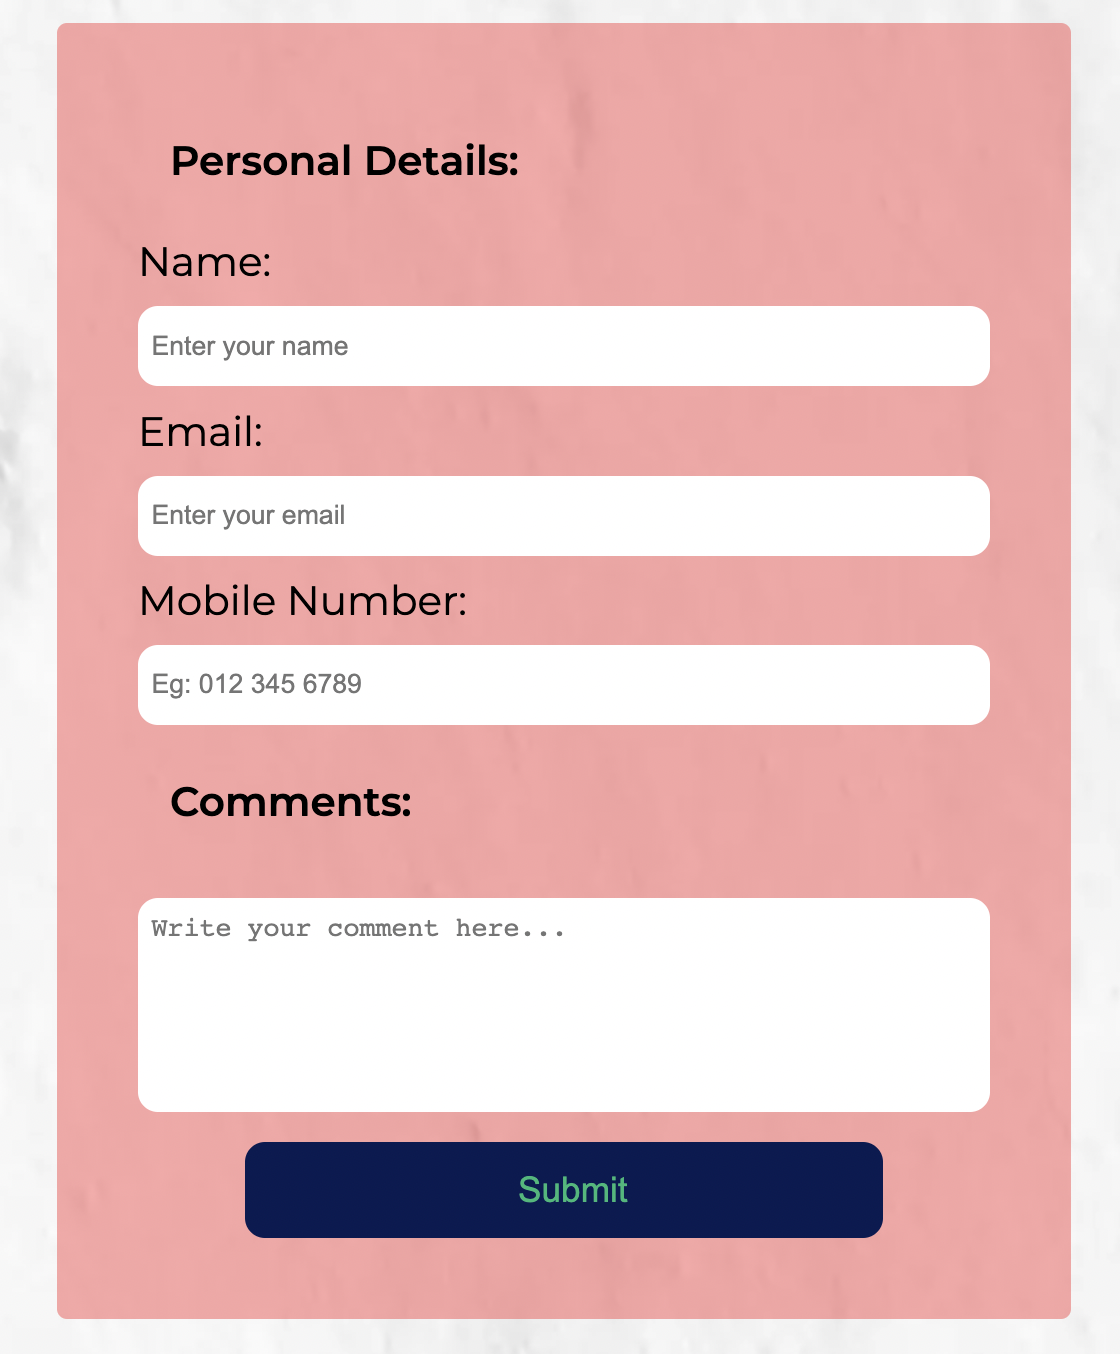
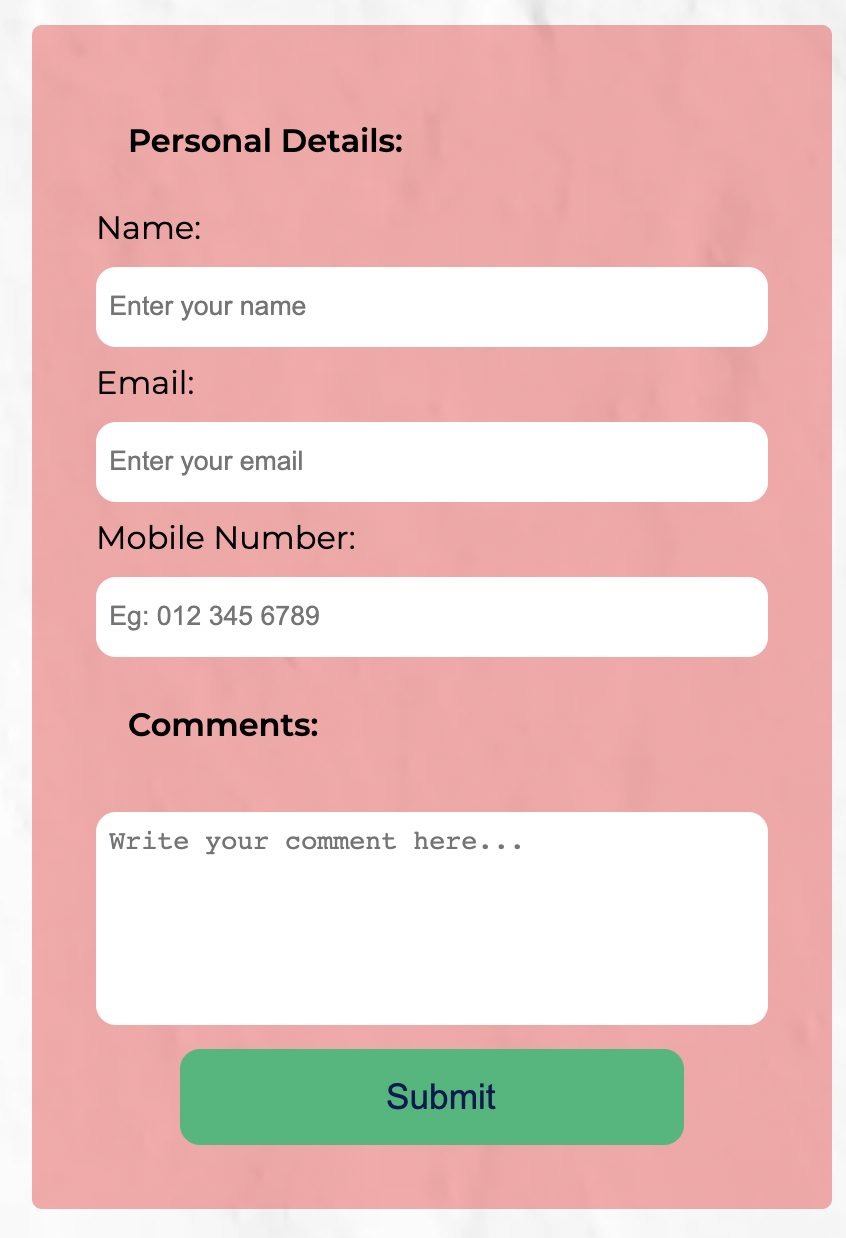
Add testing, deployment and bug report to README file

diff --git a/assets/css/styles.css b/assets/css/styles.css
@@ -42,17 +42,20 @@ h4 {
 }
 p {
  color: var(--black);   
- line-height: 1.4rem;
+ line-height: 1.1;
 }
 .how-to h3 {
  color: var(--darkgreen);
 }
 
-.hero-tex h2,
+.hero-text h2,
 h4,
 .about h3,
 aside.content h3  {
  color: var(--navy);
+}
+.hero-text h5 {
+    padding: 0;
 }
 
 
@@ -350,15 +353,15 @@ input[type="submit"] {
  margin: auto;  
  display: block;
  height: 3rem;
- background-color: var(--navy);
- color: var(--green);
+ background-color: var(--green);
+ color: var(--navy);
  font-size: 1.1rem;
  border: none;
  border-radius: 10px;
 }
 
 input[type="submit"]:active {
- background-color: var(--green);
- color: var(--maroon);
- border: 2px solid var(--orange);
+ background-color: var(--navy);
+ color: var(--green);
+ border: 3px solid var(--green);
 }

diff --git a/index.html b/index.html
@@ -40,9 +40,9 @@
     <div class="hero-image"></div>
     <div class="hero-text">
       <h2>Artificial Grass</h2>
-      <p>
+      <h5>
         <cite>"Because The Grass is Always Greener on the Other Side”</cite>
-      </p>
+      </5>
     </div>
   </header>
   <div class="container">

diff --git a/README.md b/README.md
@@ -51,12 +51,12 @@ The website uses a two column responsive layout that will merge into one for sma
 
 ### Home page
 
-The user will be greated with a hero image of green surface and a pair of builder gloves making a statement of what the website is about .Each page contains a conventional logo positioned on the top left and a navigation bar on the right side, which will me placed under the logo for mobile small screen sizes. All pages will be responsive and layout will adapt to different screen sizes.In the botton of the page the user will find the footer that  contains  social media links.
+The user will be greated with a hero image of green surface and a pair of builder gloves making a statement of what the website is about .Each page contains a conventional logo positioned on the top left and a navigation bar on the right side, which will me placed under the logo for mobile small screen sizes. All pages will be responsive and layout will adapt to different screen sizes.In the botton of the page the user will find the footer that  contains  social media links and a button to return to the top of the home page.
 ![Home page nav and hero](readme-images/nav-header.png)
 
 ### About section
 
-Under the hero image it is the about section where the user will see and introduction of what artificial grass isand  a graphic showing how it is made.
+Under the hero image it is the about section where the user will see and introduction of what artificial grass is and  a graphic showing how it is made.
 
 ### Project section
 
@@ -70,31 +70,115 @@ In the contact page the user will find a custom made contact form, where the use
 
 ## Technologies
 
-- HTML
+- [HTML](https://www.w3schools.com/html/default.asp)
   - This project uses html as the mark up language to give structure to the website.
-- CSS
+- [CSS](https://www.w3schools.com/css/default.asp)
   - This project uses css language to style the website.
-- Github
+- [Github](https://github.com/)
   - GithHub is the site used to store the source code for the Website.
-- Git
+- [Git](https://git-scm.com/)
   - Git is the  version control software used to commit and push code to the GitHub repository where the source code is stored.
-- Visual Studio Code
+- [Visual Studio Code](https://code.visualstudio.com/)
   - VS Code for short is the integrated development environment (IDE) software used to build the website.
-- Developer Tools
+- [Developer Tools](https://developer.chrome.com/docs/devtools/)
   - Google chromes built in developer tools are used to inspect page elements and help debug issues with the site layout and test different CSS styles.
-- Balsamiq
+- [Balsamiq](https://balsamiq.com/givingback/free/classroom/)
   - This software was used to create wireframes or sketches of the website.
-- Google Fonts
+- [Google Fonts](https://fonts.google.com/)
   - Google fonts are imported and used as main typography in the project.
-- Font Awesome
+- [Font Awesome](https://fontawesome.com/)
   - Icons from fontawesome are used for throughout the website, from navigation to social media links in the footer.
-- TinyPNG
+- [TinyPNG](https://tinypng.com/)
   - Is the software used to reduce the weight of the images making the website faster and save bandwidth.
 
 - [Simple Images Converter](https://www.simpleimageresizer.com/online-image-converter)
   - Is a image format converter Application to optimize images.
 
-![lighthouse test ](/readme-images/lighthouse-test.png)
-![HTML validation ](/readme-images/html-validation.png)
-![CSS validation](/readme-images/css3-validation.png)
-![Wireframe](/readme-images/wireframe-desktop.png)
+- [Code Beautify](https://codebeautify.org/)
+
+  - Is a software that help beautify the code resulting in reducing data an improving performance.
+
+## Testing
+
+- ### Links
+
+  - All links have been tested and they are working as the should.
+    - Home
+    - Project
+    - Contact
+    - Logo
+    - Top
+
+- ### Form
+
+  - Input fields in the form are working as expected, eg. if user miss to fill a required field an error message pops up.
+
+  - When the form is filled correctly a new window opens confirming that the form has been correctly submited.
+
+- ### HTML and CSS
+
+  - HTML validation
+
+    - ![HTML validation ](/readme-images/html-validation.png)
+
+  - Readable colour scheme
+
+    - ![Color scheme](readme-images/color-scheme.png)
+
+    - Header checker
+      - ![header checker](readme-images/contrast-checher-header.png)
+    - Body checker
+      - ![body checker](readme-images/contrast-checker-main.png)
+
+  - CSS validation
+
+    - ![CSS validation](/readme-images/css3-validation.png)
+
+  - Lighthouse Test
+
+    - ![lighthouse test](/readme-images/lighthouse-test.png)
+
+  - Compability test
+
+    - The website had been tested on windows-10, Mac Os, Android phone, with no      errors reported.
+
+### Bugs report
+
+- lighthouse reported images with no specific width and height and obsolete extentions.
+
+  - solution: added width and height measurements and change image extention to .webp.
+
+- Error on planing initial layout and  i couldn't make it work in mobile screen size.
+
+  - solution: started the proyect with a mobile first aproach.
+
+
+
+## Wireframe
+
+- Final product had changed from the initial plan to improve design and funtionality.
+
+  - ![Wireframe](readme-images/wireframe-desktop.png)
+
+## Deployment
+
+- The site was deployed to GitHub pages. Following this steps:
+
+  - Log in to GitHub and access the Repository.
+  - In the GitHub repository, navigate to the "Settings" tab.
+  - Go to  "Pages" on the left hand menu.
+  - Under "Source", select "Main" in the dropdown menu.
+  - Next to select "Root" in the right dropdrown menu.
+  - Click the "Save" button.
+  - Your site URL will be highligthed in green and ready un a few minutes.
+  ## Resources
+
+  - [W3Schools](https://www.w3schools.com/)
+  - [Kevin Powell](https://www.youtube.com/watch?v=VQraviuwbzU&t=329s)
+  - [Haydn Adams](https://www.youtube.com/watch?v=0L8cQ9nRtuE)
+  - [Wikipedia](https://en.wikipedia.org/wiki/Artificial_turf)
+  - [Stackoverflow](https://stackoverflow.com/)
+
+## Acknowledgments
+
+- Thank you to my mentor Brian Macharia for giving me good feedback and pointing me in the right direction., and my collegues and slack comunity at Code Institute.
